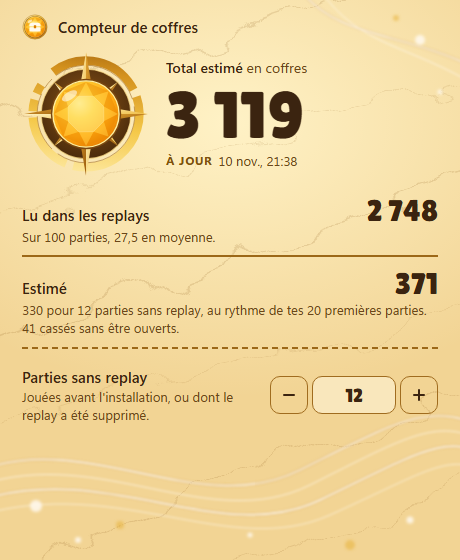
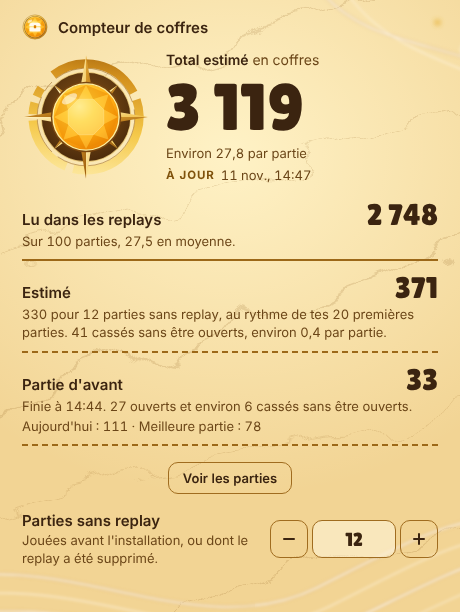
feat(content): show the chest counter 2.3.1 window and features

diff --git a/src/content/software/chest-counter.md b/src/content/software/chest-counter.md
@@ -7,11 +7,11 @@ repo: Palawizard/chest-counter
 color: amber
 category: UtilitiesApplication
 languages: ['fr', 'en']
-shareCard: 1
+shareCard: 2
 icon: ../../assets/software/chest-counter/icon.svg
 screenshots:
   - src: ../../assets/software/chest-counter/window-light.png
-    alt: "La fenêtre de Chest Counter en clair, avec des données d’exemple : 3 119 coffres au total, dont 2 748 lus dans les replays et 371 estimés."
+    alt: "La fenêtre de Chest Counter en clair, avec des données d’exemple : 3 119 coffres au total, dont 2 748 lus dans les replays et 371 estimés, et 33 coffres dans la partie d’avant."
   - src: ../../assets/software/chest-counter/window-dark.png
     alt: "La même fenêtre en sombre : elle suit le thème de Windows."
 kind: windows
@@ -26,15 +26,23 @@ requirements:
 
 ## Ce qui est compté
 
-Chaque coffre que tu ouvres toi-même : normal, rare, enterré, relique et avis de recherche. Un coffre qui se remplit à nouveau et que tu rouvres compte une deuxième fois. Les caisses de munitions et les glacières ne comptent pas.
+Chaque coffre que tu ouvres toi-même : normal, rare, enterré, relique et avis de recherche, ainsi que les types de coffres ajoutés par les mises à jour du jeu. Un coffre qui se remplit à nouveau et que tu rouvres compte une deuxième fois ; un coffre que tu revois sans le rouvrir ne compte pas. Les caisses de munitions et les glacières ne comptent pas.
+
+## Après chaque partie
+
+Sous le grand nombre, tu vois ta moyenne par partie : le total estimé divisé par toutes tes parties. « Partie d’avant » donne les coffres de ta dernière partie, ouverts plus cassés estimés, l’heure à laquelle elle a fini, tes coffres du jour et ta meilleure partie. « Voir les parties » liste chaque partie comptée avec le même total et ses coffres ouverts par type. Une notification Windows te dit aussi combien de coffres chaque partie a ajoutés ; tu peux la couper en bas de la liste.
 
 ## Les limites
 
 - Fortnite garde environ 100 replays. Une partie dont le replay est supprimé avant que l’app le lise ne peut être qu’estimée : ouvre Chest Counter au moins une fois toutes les 100 parties.
 - Les replays ne disent pas qui a cassé un coffre. Un coffre détruit avec son butin compte pour toi si tu étais le joueur le plus proche, à moins de 10 m. En véhicule, ta position n’est pas suivie : ces coffres comptent pour 0,7. Cette part reste toujours dans l’estimation.
 - Les coffres du détecteur de reliques ne sont pas comptés.
-- Un type de coffre ajouté par une mise à jour du jeu est ignoré jusqu’à la mise à jour de l’app.
+- Une partie coupée par un plantage laisse un replay inachevé : elle est affichée à part et ne peut pas être comptée. Une partie quittée depuis le menu est comptée normalement.
 - Tous les modes de jeu présents dans le dossier des replays sont comptés.
+
+## Si tu avais déjà une version 2.2 ou plus ancienne
+
+La 2.3 compte plus juste. Avant, un coffre ouvert, puis revu plus tard dans la partie, était souvent compté une deuxième fois : sur 99 parties de test, l’ancien compte était environ 25 % trop haut. Après la mise à jour, « Lu dans les replays » baisse donc, c’est normal. Tes replays encore sur le PC sont relus une fois, et les parties comptées par une ancienne version dont le replay a disparu passent dans « Parties sans replay », où elles sont estimées. La fenêtre affiche une fois les chiffres d’avant et d’après.
 
 ## Tes données
 

diff --git a/src/content/software-en/chest-counter.md b/src/content/software-en/chest-counter.md
@@ -1,7 +1,7 @@
 ---
 tagline: Counts the chests you open in Fortnite, match by match, from the replays already on your PC.
 screenshotAlts:
-  - "The Chest Counter window in light mode, with sample data: 3,119 chests in total, 2,748 read from replays and 371 estimated."
+  - "The Chest Counter window in light mode, with sample data: 3,119 chests in total, 2,748 read from replays and 371 estimated, and 33 chests in the last match."
   - "The same window in dark mode: it follows your Windows theme."
 requirements:
   - Windows 10 or 11, 64-bit
@@ -11,15 +11,23 @@ requirements:
 
 ## What gets counted
 
-Every chest you open yourself: regular, rare, buried, relic and bounty chests. A chest that refills and that you open again counts a second time. Ammo boxes and coolers don’t count.
+Every chest you open yourself: regular, rare, buried, relic and bounty chests, and the chest types added by game updates. A chest that refills and that you open again counts a second time; a chest you only see again doesn’t. Ammo boxes and coolers don’t count.
+
+## After each match
+
+Under the big number, you see your average per match: the estimated total divided by all your matches. “Last match” shows the chests of your latest match, opened plus broken estimated, when it ended, today’s chests and your best match. “See all matches” lists every counted match with the same total and its opened chests by type. A Windows notification also tells you how many chests each match added; you can turn it off at the bottom of the list.
 
 ## The limits
 
 - Fortnite keeps about 100 replays. A match whose replay is deleted before the app reads it can only be estimated: open Chest Counter at least once every 100 matches.
 - Replays don’t say who broke a chest. A chest destroyed along with its loot counts for you if you were the closest player, within 10 m. In a vehicle your position isn’t tracked, so those chests count as 0.7. That share always stays in the estimate.
 - Chests from the relic detector aren’t counted.
-- A chest type added by a game update is skipped until the app is updated.
+- A match cut short by a crash leaves an unfinished replay: it is shown apart and can’t be counted. A match you quit from the menu is counted normally.
 - Every game mode in the replays folder is counted.
+
+## If you already had version 2.2 or older
+
+Version 2.3 counts more accurately. Before, a chest you opened, then saw again later in the match, was often counted a second time: on 99 test matches, the old count was about 25% too high. So “Read from replays” goes down after the update, and that’s expected. Your replays still on the PC are read again once, and matches counted by an older version whose replay is gone move to “Matches without a replay”, where they are estimated. The window shows the numbers before and after, once.
 
 ## Your data
 
